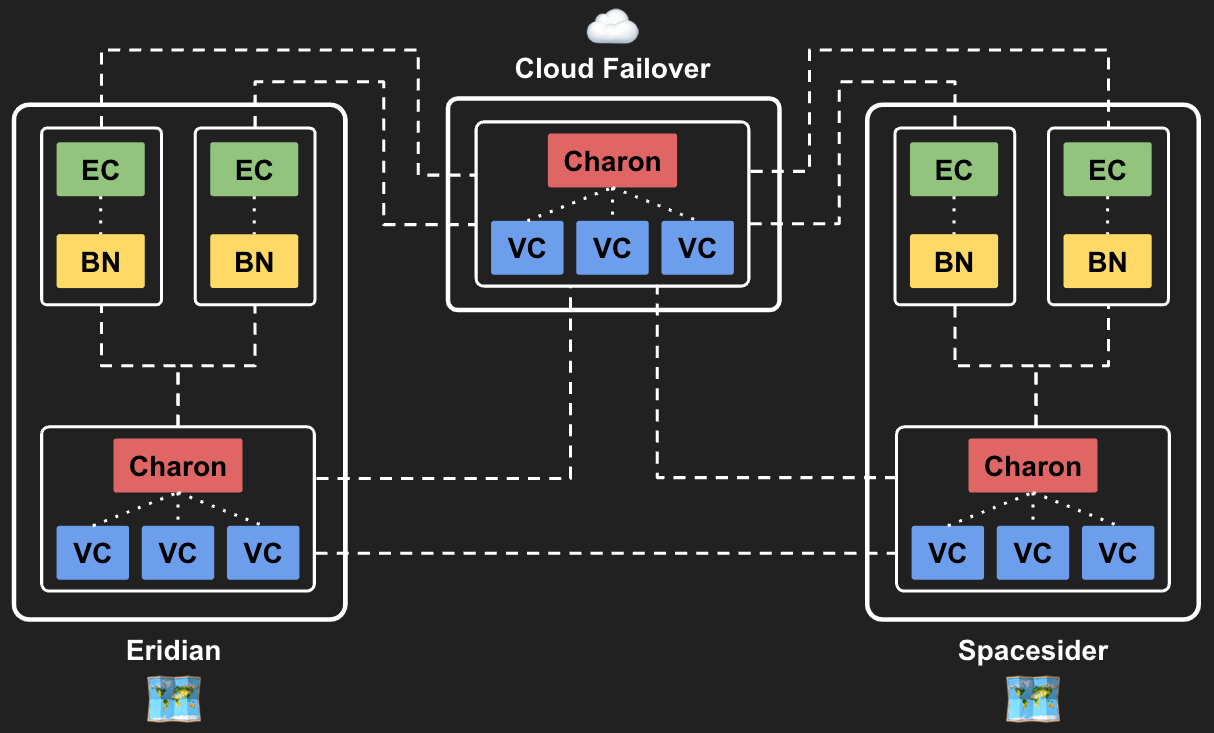
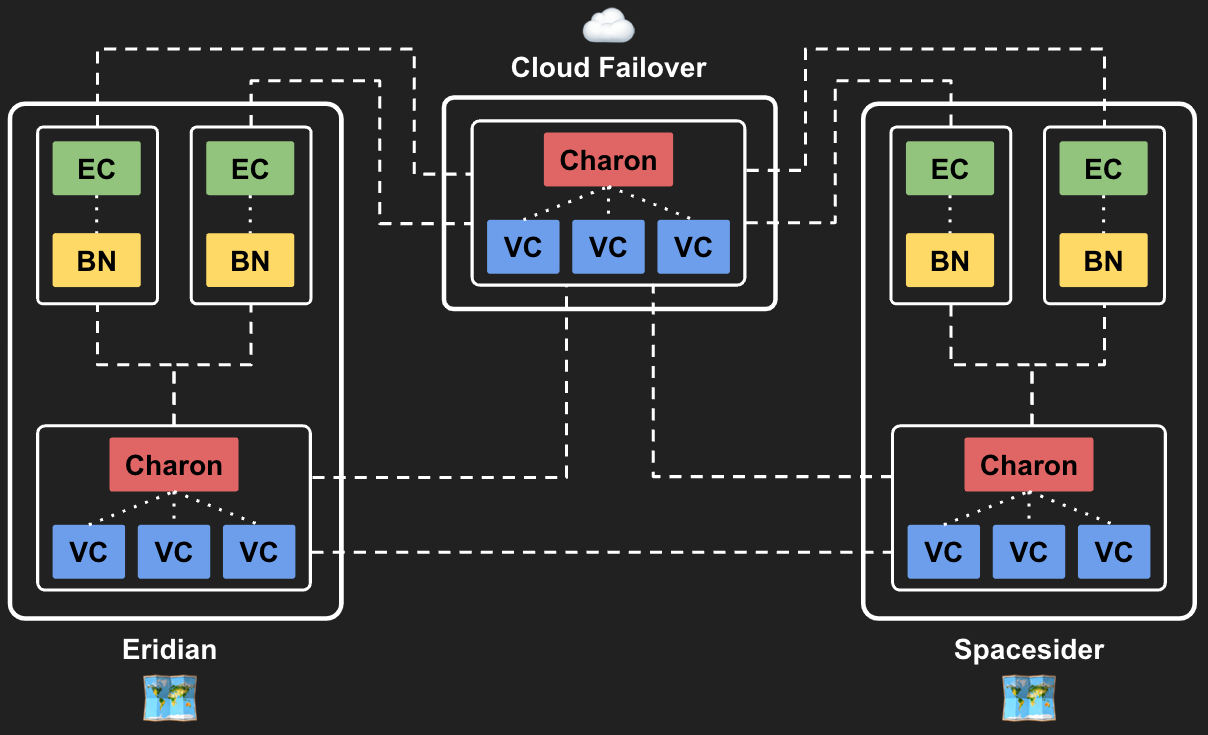
GITBOOK-15: No subject

diff --git a/SUMMARY.md b/SUMMARY.md
@@ -23,13 +23,13 @@
       * [💾 Installation](infrastructure/eridian/validator-clients/geth/installation.md)
       * [⌨ Useful commands](infrastructure/eridian/validator-clients/geth/useful-commands.md)
       * [🏗 Maintenance](infrastructure/eridian/validator-clients/geth/maintenance.md)
-    * [Lighthouse](infrastructure/eridian/validator-clients/lighthouse/README.md)
+    * [Lighthouse](<infrastructure/eridian/validator-clients/lighthouse/README (1).md>)
       * [Lighthouse client](infrastructure/eridian/validator-clients/lighthouse/lighthouse-client/README.md)
         * [💾 Installation](infrastructure/eridian/validator-clients/lighthouse/lighthouse-client/installation.md)
         * [🏗 Maintenance](infrastructure/eridian/validator-clients/lighthouse/lighthouse-client/maintenance.md)
-      * [Lighthouse BN](infrastructure/eridian/validator-clients/lighthouse/lighthouse-bn/README.md)
-        * [💾 Installation](infrastructure/eridian/validator-clients/lighthouse/lighthouse-bn/installation.md)
-        * [⌨ Useful commands](infrastructure/eridian/validator-clients/lighthouse/lighthouse-bn/useful-commands.md)
+      * [Lighthouse BN](infrastructure/eridian/validator-clients/lighthouse/README.md)
+        * [💾 Installation](infrastructure/eridian/validator-clients/lighthouse/installation.md)
+        * [⌨ Useful commands](infrastructure/eridian/validator-clients/lighthouse/useful-commands.md)
         * [🏗 Maintenance](infrastructure/eridian/validator-clients/lighthouse/lighthouse-bn/maintenance.md)
       * [Lighthouse VC (No DVT)](infrastructure/eridian/validator-clients/lighthouse/lighthouse-vc-no-dvt/README.md)
         * [💾 Installation](infrastructure/eridian/validator-clients/lighthouse/lighthouse-vc-no-dvt/installation.md)

diff --git a/infrastructure/eridian/validator-clients/lighthouse/installation.md b/infrastructure/eridian/validator-clients/lighthouse/installation.md
@@ -127,79 +127,3 @@ sudo journalctl -f -u lighthousebeacon.service -o cat | ccze -A  # View the ligh
 ```
 {% endtab %}
 {% endtabs %}
-
-### Lighthouse - Update Scripts
-
-Create `Lighthouse` build script.
-
-```bash
-vim ~/lighthouse-build.sh
-```
-
-{% code title="~/lighthouse-build.sh" %}
-```bash
-#!/bin/bash
-cd ~/lighthouse
-git checkout stable
-
-echo "****************************************"
-echo "Pulling latest changes for Lighthouse..."
-echo "****************************************"
-git pull
-
-echo
-echo "********************"
-echo "Making Lighthouse..."
-echo "********************"
-make
-```
-{% endcode %}
-
-Create `Lighthouse` deploy script.
-
-```bash
-vim ~/lighthouse-deploy.sh
-```
-
-{% code title="~/lighthouse-deploy.sh" %}
-```bash
-#!/bin/bash
-echo "**********************"
-echo "Stopping Lighthouse..."
-sudo systemctl stop lighthousebeacon.service
-sudo systemctl stop lighthousevalidator.service
-
-
-echo "Replacing previous version..."
-sudo rm /usr/local/bin/lighthouse
-sudo cp ~/.cargo/bin/lighthouse /usr/local/bin
-
-echo "Restarting Lighthouse..."
-sudo systemctl start lighthousebeacon.service
-sudo systemctl start lighthousevalidator.service
-```
-{% endcode %}
-
-Create `Lighthouse` deploy script checker script.
-
-{% code title="~/lighthouse-deploy-check.sh" %}
-```bash
-#!/bin/bash
-while true; do
-    read -p "Are you sure you want to deploy Lighthouse? (Y/N) " yn
-    case $yn in
-        [Yy]* ) cd; ./lighthouse-deploy.sh; break;;
-        [Nn]* ) exit;;
-        * ) echo "Please answer Y or N.";;
-    esac
-done
-```
-{% endcode %}
-
-Make all scripts executable.
-
-```bash
-chmod u+x ~/lighthouse-build.sh
-chmod u+x ~/lighthouse-deploy.sh
-chmod u+x ~/lighthouse-deploy-check.sh
-```

diff --git a/infrastructure/eridian/validator-clients/lighthouse/README.md b/infrastructure/eridian/validator-clients/lighthouse/README.md
@@ -1,15 +1,19 @@
-# Lighthouse
+---
+description: SigmaPrime Lighthouse Beacon Node Documentation.
+---
+
+# Lighthouse BN
 
 <figure><img src="https://raw.githubusercontent.com/DVStakers/docs/main/.gitbook/assets/Eridian.png" alt=""><figcaption><p>Eridian</p></figcaption></figure>
 
-{% content-ref url="lighthouse-client/" %}
-[lighthouse-client](lighthouse-client/)
+{% content-ref url="installation.md" %}
+[installation.md](installation.md)
 {% endcontent-ref %}
 
-{% content-ref url="lighthouse-bn/" %}
-[lighthouse-bn](lighthouse-bn/)
+{% content-ref url="useful-commands.md" %}
+[useful-commands.md](useful-commands.md)
 {% endcontent-ref %}
 
-{% content-ref url="lighthouse-vc-no-dvt/" %}
-[lighthouse-vc-no-dvt](lighthouse-vc-no-dvt/)
+{% content-ref url="lighthouse-bn/maintenance.md" %}
+[maintenance.md](lighthouse-bn/maintenance.md)
 {% endcontent-ref %}

diff --git a/infrastructure/eridian/validator-clients/lighthouse/README (1).md b/infrastructure/eridian/validator-clients/lighthouse/README (1).md
@@ -1,15 +1,15 @@
-# ⛓ Validator clients
+# Lighthouse
 
 <figure><img src="https://raw.githubusercontent.com/DVStakers/docs/main/.gitbook/assets/Eridian.png" alt=""><figcaption><p>Eridian</p></figcaption></figure>
 
-{% content-ref url="geth/" %}
-[geth](geth/)
+{% content-ref url="lighthouse-client/" %}
+[lighthouse-client](lighthouse-client/)
 {% endcontent-ref %}
 
-{% content-ref url="lighthouse/README (1).md" %}
-[README (1).md](<lighthouse/README (1).md>)
+{% content-ref url="./" %}
+[.](./)
 {% endcontent-ref %}
 
-{% content-ref url="mev-boost/" %}
-[mev-boost](mev-boost/)
+{% content-ref url="lighthouse-vc-no-dvt/" %}
+[lighthouse-vc-no-dvt](lighthouse-vc-no-dvt/)
 {% endcontent-ref %}

diff --git a/README.md b/README.md
@@ -18,7 +18,7 @@ Join us on an adventure as two dedicated Ethereum solo stakers prepare to run [O
 
 Jump straight to our overview by click to image below:
 
-<figure><img src=".gitbook/assets/image (2).png" alt="System architecture of DVStakers decentralized DVT validators with redundancy"><figcaption><p>System architecture of DVStakers decentralized DVT validators with redundancy</p></figcaption></figure>
+<figure><img src=".gitbook/assets/image (2) (1).png" alt="System architecture of DVStakers decentralized DVT validators with redundancy"><figcaption><p>System architecture of DVStakers decentralized DVT validators with redundancy</p></figcaption></figure>
 
 ### 🚀 About Us
 

diff --git a/spacesider-old/validator-clients/README.md b/spacesider-old/validator-clients/README.md
@@ -6,8 +6,8 @@
 [geth](../../infrastructure/eridian/validator-clients/geth/)
 {% endcontent-ref %}
 
-{% content-ref url="../../infrastructure/eridian/validator-clients/lighthouse/lighthouse-bn/" %}
-[lighthouse-bn](../../infrastructure/eridian/validator-clients/lighthouse/lighthouse-bn/)
+{% content-ref url="../../infrastructure/eridian/validator-clients/lighthouse/" %}
+[lighthouse](../../infrastructure/eridian/validator-clients/lighthouse/)
 {% endcontent-ref %}
 
 {% content-ref url="../../infrastructure/eridian/validator-clients/mev-boost/" %}

diff --git a/overview.md b/overview.md
@@ -12,7 +12,7 @@
 
 
 
-<figure><img src=".gitbook/assets/image (3).png" alt="System architecture of DVStakers decentralized DVT validators with redundancy"><figcaption><p>System architecture of DVStakers decentralized DVT validators with redundancy</p></figcaption></figure>
+<figure><img src=".gitbook/assets/image (2).png" alt="System architecture of DVStakers decentralized DVT validators with redundancy"><figcaption><p>System architecture of DVStakers decentralized DVT validators with redundancy</p></figcaption></figure>
 
 
 
